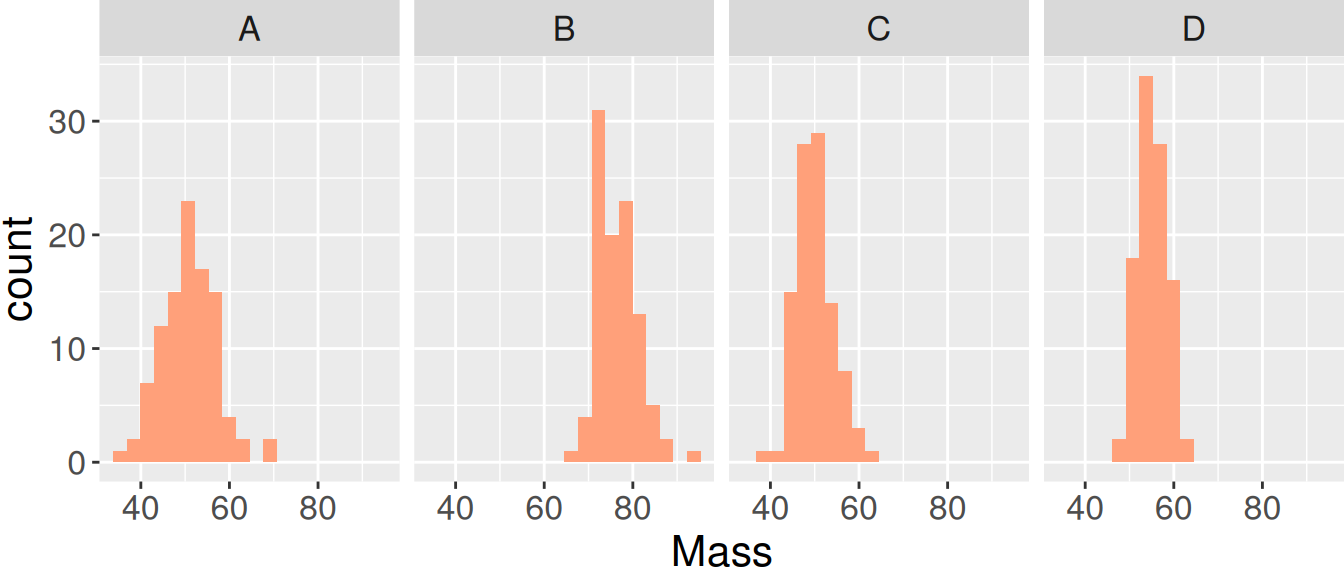
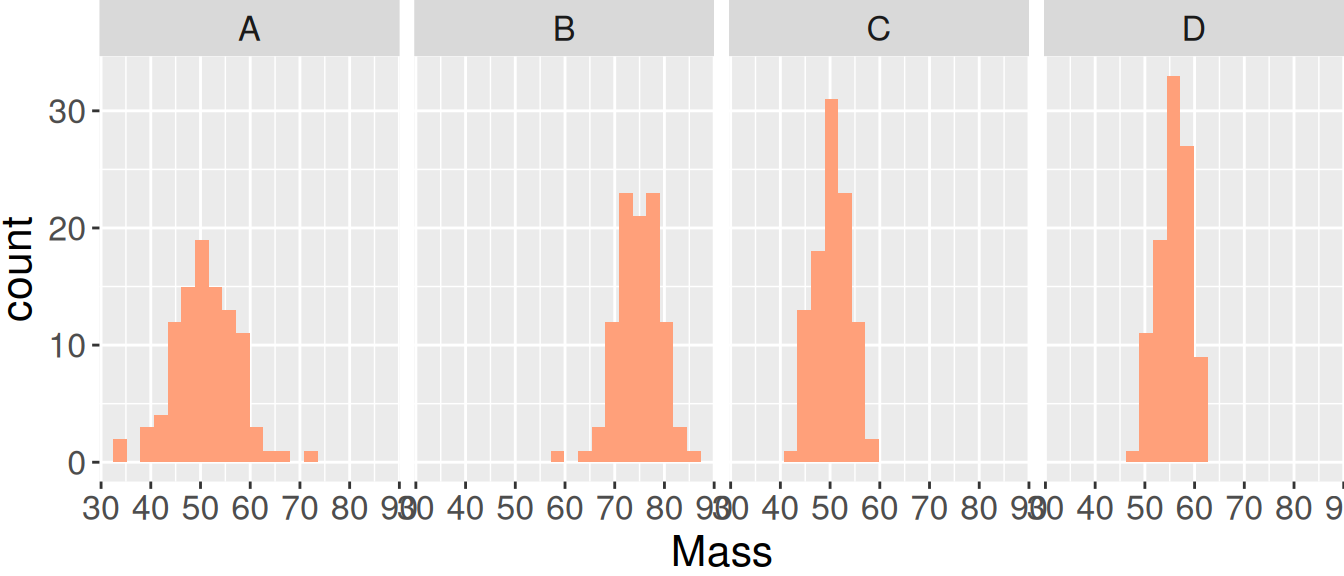
a few typos fixed

diff --git a/index.html b/index.html
@@ -666,7 +666,7 @@ value of these elements?</p></li>
 function</p>
 <div class="sourceCode" id="cb63"><pre class="sourceCode r"><code class="sourceCode r"><span id="cb63-1"><a href="#cb63-1" aria-hidden="true" tabindex="-1"></a>norm <span class="ot">&lt;-</span> <span class="fu">rnorm</span>(<span class="at">n =</span> <span class="dv">1000</span>, <span class="at">mean =</span> <span class="dv">0</span>, <span class="at">sd =</span> <span class="dv">1</span>)</span>
 <span id="cb63-2"><a href="#cb63-2" aria-hidden="true" tabindex="-1"></a><span class="fu">head</span>(norm)</span></code></pre></div>
-<pre><code>## [1] -0.1360750 -1.0899380  0.3072019  0.3279809 -0.1896367 -0.8357660</code></pre>
+<pre><code>## [1]  1.2962971  1.5957582 -0.6280748 -0.9463074  0.3634875  1.2677440</code></pre>
 <p><img src="index_files/figure-revealjs/unnamed-chunk-26-1.png" width="288" /></p>
 </section>
 <section id="your-turn-5" class="slide level2"
@@ -754,9 +754,9 @@ histogram of the sample.</p></li>
 <code>sample()</code> function</p>
 <div class="sourceCode" id="cb66"><pre class="sourceCode r"><code class="sourceCode r"><span id="cb66-1"><a href="#cb66-1" aria-hidden="true" tabindex="-1"></a>x <span class="ot">&lt;-</span> <span class="dv">1</span><span class="sc">:</span><span class="dv">50</span></span>
 <span id="cb66-2"><a href="#cb66-2" aria-hidden="true" tabindex="-1"></a><span class="fu">sample</span>(x, <span class="at">size =</span> <span class="dv">20</span>)  <span class="co"># sample without replacement</span></span></code></pre></div>
-<pre><code>##  [1] 16 24 27 19 21 35 43 26 48 30  3 50 33  4  8 15 38 25 39 29</code></pre>
+<pre><code>##  [1] 41 18 22 40  3 48 21 29  8 44 43 14 49 42 20 30 27 23  4  6</code></pre>
 <div class="sourceCode" id="cb68"><pre class="sourceCode r"><code class="sourceCode r"><span id="cb68-1"><a href="#cb68-1" aria-hidden="true" tabindex="-1"></a><span class="fu">sample</span>(x, <span class="at">size =</span> <span class="dv">20</span>, <span class="at">replace =</span> <span class="cn">TRUE</span>)  <span class="co"># sample with replacement</span></span></code></pre></div>
-<pre><code>##  [1] 11 42 12 19 18 48 17  8 18 19 50 14 41 11 47 23 37 40 49 49</code></pre>
+<pre><code>##  [1] 21 49 18 18 50 40 35  4 22 44 38 14 45 18 19 15 20 47 49 17</code></pre>
 </section>
 <section id="your-turn-8" class="slide level2"
 data-background-color="#b3cde3">
@@ -1095,7 +1095,7 @@ data-background-color="#b3cde3">
 <p>Explain each of the following indexing statements:</p>
 <ol type="1">
 <li><p><code>iris[1:4, ]</code></p></li>
-<li><p><code>iris[c(1:15), c(1, 3)]</code></p></li>
+<li><p><code>iris[c(3, 15, 45), c(1, 3)]</code></p></li>
 <li><p><code>iris[iris$Species == "setosa", "Petal.Width"]</code></p></li>
 <li><p>What happens when you add a <code>!</code> before a logical
 statement? <em>Hint:</em> Compare
@@ -1369,16 +1369,15 @@ class="sourceCode r"><code class="sourceCode r"><span id="cb133-1"><a href="#cb1
 ## [1] 4
 ## [1] 5</code></pre>
 </section>
-<section id="for-loops---braces-vs.-brackets" class="slide level2">
-<h2>For-loops - braces vs. brackets</h2>
+<section id="for-loops---brackets-parentheses-braces"
+class="slide level2">
+<h2>For-loops - brackets, parentheses, braces</h2>
 <ul>
 <li>We’ll now go through the differences among:
 <ul>
 <li>square brackets <code>[]</code></li>
-<li>curly braces <code>{}</code>: encases multiple statements within a
-control-flow construct (<code>for</code>, <code>while</code>,
-<code>if</code>, etc.)</li>
-<li>parentheses <code>()</code>: arithmetic use as well as</li>
+<li>parentheses <code>()</code></li>
+<li>curly braces <code>{}</code></li>
 </ul></li>
 </ul>
 </section>
@@ -1656,8 +1655,8 @@ class="sourceCode r"><code class="sourceCode r"><span id="cb183-1"><a href="#cb1
 <span id="cb183-4"><a href="#cb183-4" aria-hidden="true" tabindex="-1"></a>    output.vec[i] <span class="ot">&lt;-</span> x[i] <span class="sc">*</span> <span class="dv">10</span></span>
 <span id="cb183-5"><a href="#cb183-5" aria-hidden="true" tabindex="-1"></a>}</span>
 <span id="cb183-6"><a href="#cb183-6" aria-hidden="true" tabindex="-1"></a>output.vec</span></code></pre></div>
-<pre><code>##  [1] 12.3696025  0.5697258 17.2368494  9.2661207 10.6775069  5.9088956
-##  [7] 10.3581068  4.8837208 14.0087878  6.9623751</code></pre>
+<pre><code>##  [1] 12.101430 17.323934  3.115839 10.797821 10.773223 19.815585 19.466967
+##  [8]  4.795689  9.076968 19.784356</code></pre>
 </section>
 <section id="how-do-we-save-for-loop-outputs-1" class="slide level2">
 <h2>How do we save for-loop outputs?</h2>
@@ -1673,8 +1672,8 @@ class="sourceCode r"><code class="sourceCode r"><span id="cb185-1"><a href="#cb1
 <span id="cb185-4"><a href="#cb185-4" aria-hidden="true" tabindex="-1"></a>    output.vec[i] <span class="ot">&lt;-</span> x[i] <span class="sc">*</span> <span class="dv">10</span></span>
 <span id="cb185-5"><a href="#cb185-5" aria-hidden="true" tabindex="-1"></a>}</span>
 <span id="cb185-6"><a href="#cb185-6" aria-hidden="true" tabindex="-1"></a>output.vec</span></code></pre></div>
-<pre><code>##  [1] 11.473383  1.817030 12.288090 19.593897 16.886416 10.091032 11.265035
-##  [8]  6.520240  7.644995  4.438440</code></pre>
+<pre><code>##  [1]  2.067667 -7.978321 10.773916 14.152444  6.257472 14.843596  4.837205
+##  [8] 13.192404 11.472780  6.847058</code></pre>
 </section>
 <section id="your-turn-16" class="slide level2"
 data-background-color="#b3cde3">
@@ -1687,8 +1686,8 @@ vector y) using a for-loop with index <code>i</code>. Place the output
 in a <strong>vector</strong>.</p></li>
 <li><p>Compute <code>y[i] * 2</code> for 10 iterations using a for-loop.
 Place the output in a <strong>list</strong>.</p></li>
-<li><p>Find the the 4th element in the output vector from question 1 and
-the output list from question 2.</p></li>
+<li><p>Find the 4th element in the output vector from question 1 and the
+output list from question 2.</p></li>
 </ol>
 </section>
 <section id="control-flow-statements---if" class="slide level2">
@@ -1742,7 +1741,7 @@ class="sourceCode r"><code class="sourceCode r"><span id="cb192-1"><a href="#cb1
 <span id="cb192-8"><a href="#cb192-8" aria-hidden="true" tabindex="-1"></a>    }</span>
 <span id="cb192-9"><a href="#cb192-9" aria-hidden="true" tabindex="-1"></a>}</span>
 <span id="cb192-10"><a href="#cb192-10" aria-hidden="true" tabindex="-1"></a>output.vec</span></code></pre></div>
-<pre><code>##  [1] -100    4    4 -100    1    4 -100    1    4 -100</code></pre>
+<pre><code>##  [1]    1    1   16    1    4 -100 -100    4    1    1</code></pre>
 </section>
 <section id="control-flow-statements---break" class="slide level2">
 <h2>Control flow statements - break</h2>
@@ -1820,13 +1819,13 @@ vector, or list)</li>
 <div class="sourceCode" id="cb198"><pre
 class="sourceCode r"><code class="sourceCode r"><span id="cb198-1"><a href="#cb198-1" aria-hidden="true" tabindex="-1"></a>M <span class="ot">&lt;-</span> <span class="fu">matrix</span>(<span class="fu">rnorm</span>(<span class="dv">9</span>), <span class="at">ncol =</span> <span class="dv">3</span>, <span class="at">nrow =</span> <span class="dv">3</span>)</span>
 <span id="cb198-2"><a href="#cb198-2" aria-hidden="true" tabindex="-1"></a>M</span></code></pre></div>
-<pre><code>##           [,1]       [,2]      [,3]
-## [1,] 0.4778846  0.5312273 0.2523959
-## [2,] 0.4557595 -0.8781574 1.3094573
-## [3,] 0.3923765  0.5309819 0.3318021</code></pre>
+<pre><code>##             [,1]       [,2]        [,3]
+## [1,]  0.03463281 -0.1913064  0.35583428
+## [2,] -1.35787523 -0.5454034 -0.28483020
+## [3,] -1.90640494  0.9405241  0.09402314</code></pre>
 <div class="sourceCode" id="cb200"><pre
 class="sourceCode r"><code class="sourceCode r"><span id="cb200-1"><a href="#cb200-1" aria-hidden="true" tabindex="-1"></a><span class="fu">apply</span>(M, <span class="dv">2</span>, median)</span></code></pre></div>
-<pre><code>## [1] 0.4557595 0.5309819 0.3318021</code></pre>
+<pre><code>## [1] -1.35787523 -0.19130641  0.09402314</code></pre>
 </section>
 <section id="apply-vs.-for-loop" class="slide level2">
 <h2><code>apply</code> vs. for-loop</h2>
@@ -1837,7 +1836,7 @@ class="sourceCode r"><code class="sourceCode r"><span id="cb202-1"><a href="#cb2
 <span id="cb202-3"><a href="#cb202-3" aria-hidden="true" tabindex="-1"></a>    median.vec[i] <span class="ot">&lt;-</span> <span class="fu">median</span>(M[, i])</span>
 <span id="cb202-4"><a href="#cb202-4" aria-hidden="true" tabindex="-1"></a>}</span>
 <span id="cb202-5"><a href="#cb202-5" aria-hidden="true" tabindex="-1"></a>median.vec</span></code></pre></div>
-<pre><code>## [1] 0.4557595 0.5309819 0.3318021</code></pre>
+<pre><code>## [1] -1.35787523 -0.19130641  0.09402314</code></pre>
 </section>
 <section id="apply-family-of-functions" class="slide level2">
 <h2><code>apply</code> family of functions</h2>
@@ -1874,7 +1873,7 @@ class="sourceCode r"><code class="sourceCode r"><span id="cb206-1"><a href="#cb2
 ## [1] 12.3
 ## 
 ## [[3]]
-## [1] -4.946674</code></pre>
+## [1] 2.589852</code></pre>
 </section>
 <section id="useful-links" class="slide level2">
 <h2>Useful links</h2>
@@ -2415,9 +2414,9 @@ observations in each row</p>
 <div class="sourceCode" id="cb248"><pre
 class="sourceCode r"><code class="sourceCode r"><span id="cb248-1"><a href="#cb248-1" aria-hidden="true" tabindex="-1"></a>spp.df.wide[<span class="dv">1</span><span class="sc">:</span><span class="dv">3</span>, ]</span></code></pre></div>
 <pre><code>##   SpeciesA SpeciesB SpeciesC SpeciesD
-## 1 50.88284 72.63438 19.90711 25.46378
-## 2 49.49502 75.03181 19.64588 26.25453
-## 3 49.90255 71.36740 20.36793 24.97970</code></pre>
+## 1 50.33678 64.76384 19.61440 24.21597
+## 2 50.65122 69.78516 20.58344 23.88077
+## 3 51.45860 71.37763 19.50046 24.15696</code></pre>
 <div class="sourceCode" id="cb250"><pre
 class="sourceCode r"><code class="sourceCode r"><span id="cb250-1"><a href="#cb250-1" aria-hidden="true" tabindex="-1"></a><span class="fu">dim</span>(spp.df.wide)</span></code></pre></div>
 <pre><code>## [1] 100   4</code></pre>
@@ -2429,9 +2428,9 @@ format, with only one row per observation (experimental unit)</p>
 <div class="sourceCode" id="cb252"><pre
 class="sourceCode r"><code class="sourceCode r"><span id="cb252-1"><a href="#cb252-1" aria-hidden="true" tabindex="-1"></a>spp.df.long[<span class="dv">1</span><span class="sc">:</span><span class="dv">3</span>, ]</span></code></pre></div>
 <pre><code>##   Species     Mass
-## 1       A 72.38406
-## 2       B 69.17753
-## 3       C 76.50722</code></pre>
+## 1       A 73.50406
+## 2       B 68.85443
+## 3       C 78.89955</code></pre>
 <div class="sourceCode" id="cb254"><pre
 class="sourceCode r"><code class="sourceCode r"><span id="cb254-1"><a href="#cb254-1" aria-hidden="true" tabindex="-1"></a><span class="fu">dim</span>(spp.df.long)</span></code></pre></div>
 <pre><code>## [1] 400   2</code></pre>
@@ -2446,12 +2445,12 @@ class="sourceCode r"><code class="sourceCode r"><span id="cb256-1"><a href="#cb2
 <span id="cb256-5"><a href="#cb256-5" aria-hidden="true" tabindex="-1"></a>                           <span class="at">D =</span> <span class="fu">rnorm</span>(<span class="dv">100</span>, <span class="dv">55</span>, <span class="dv">3</span>))</span>
 <span id="cb256-6"><a href="#cb256-6" aria-hidden="true" tabindex="-1"></a><span class="fu">head</span>(test.df.wide)</span></code></pre></div>
 <pre><code>##          A        B        C        D
-## 1 55.30828 73.60926 44.76476 56.61079
-## 2 46.96735 82.32865 47.06703 50.60158
-## 3 68.09063 80.07945 47.55839 58.41935
-## 4 56.78371 72.47990 53.22355 55.02542
-## 5 48.67651 70.83351 48.73614 55.28996
-## 6 52.68795 81.41580 45.70485 55.00075</code></pre>
+## 1 48.27665 74.92683 52.99892 55.41582
+## 2 45.40381 74.81773 44.81947 58.61906
+## 3 53.91417 80.33177 47.65848 58.51843
+## 4 47.49185 78.78356 52.61922 59.17097
+## 5 57.52381 78.61931 50.03317 54.15938
+## 6 62.29263 69.55388 49.49573 56.05505</code></pre>
 </section>
 <section id="melting-from-wide-to-long-1" class="slide level2">
 <h2>Melting: from wide to long</h2>
@@ -2464,12 +2463,12 @@ class="sourceCode r"><code class="sourceCode r"><span id="cb258-1"><a href="#cb2
 <span id="cb258-4"><a href="#cb258-4" aria-hidden="true" tabindex="-1"></a>                     <span class="at">value.name =</span> <span class="st">&quot;Mass&quot;</span>)</span>
 <span id="cb258-5"><a href="#cb258-5" aria-hidden="true" tabindex="-1"></a><span class="fu">head</span>(test.df.long)</span></code></pre></div>
 <pre><code>##   Species     Mass
-## 1       A 55.30828
-## 2       A 46.96735
-## 3       A 68.09063
-## 4       A 56.78371
-## 5       A 48.67651
-## 6       A 52.68795</code></pre>
+## 1       A 48.27665
+## 2       A 45.40381
+## 3       A 53.91417
+## 4       A 47.49185
+## 5       A 57.52381
+## 6       A 62.29263</code></pre>
 </section>
 <section id="melting-from-wide-to-long-2" class="slide level2">
 <h2>Melting: from wide to long</h2>
